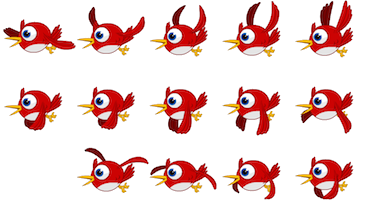
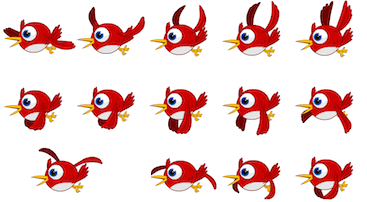
Add files via upload

Changed region(s): [[0.0899, 0.7129, 0.4196, 0.9505]]

diff --git a/Atividade_Avaliativa_2/assets/script/script.js b/Atividade_Avaliativa_2/assets/script/script.js
@@ -3,6 +3,7 @@ var ctx = canvas.getContext('2d');
 
 var but = new Image();
 var bird = new Image();
+var birdRev = new Image();
 var explode  = new Image();
 
 canvas.width = 1400;
@@ -14,12 +15,14 @@ var y = 585;
 var size = 45;
 var index = 0;
 var indexBird = 0;
+var indexBirdRev = 0;
 var indexExplode = 0;
 var tnt = false;
 var start = index;
 var objetos = [100];
 var objeto = [];
 var objetoBird = [];
+var objetoBirdRev = [];
 var sx_or = [1,99,195,292,391,491,591,692,795,899];
 var sy_or = [101,101,103,106,110,112,110,106,103,101];
 var sW_or = [41,43,47,57,66,69,66,57,47,43];
@@ -42,23 +45,31 @@ var sx_Bird = [13,86,159,221,291,13,86,159,232,304,13,86,150,293];
 var sy_Bird = [0,1,4,6,19,86,86,86,86,87,156,157,158,138];
 var sWidth_Bird = [59,59,59,69,70,59,59,59,58,59,59,59,65,72];
 var sHeight_Bird = [58,57,53,50,36,48,50,49,44,44,44,43,35,46];
-//var Bird = [sx_Bird,sy_Bird,sWidth_Bird,sHeight_Bird];
+
+var sx_BirdRev = [295,222,149,77,73,295,222,149,77,4,295,222,151,31];
+var sy_BirdRev = [0,1,4,6,19,86,86,86,86,87,156,157,158,147];
+var sWidth_BirdRev = [59,59,59,69,70,59,59,59,58,59,59,59,66,72];
+var sHeight_BirdRev = [58,57,53,50,36,48,50,49,44,44,44,43,35,46];
+//var BirdRev = [sx_BirdRev,sy_BirdRev,sWidth_BirdRev,sHeight_BirdRev];
 
 var sx_explode = [40,129,232,322,419,501,613,707,804,984,5,101,202,303,401,501,594,708,809,910,11,111,217,317,414,511];
 var sy_explode = [45,39,33,28,23,18,12,7,1,6,201,201,201,201,201,201,202,201,201,201,388,391,391,391,391,391];
 var sW_explode = [27,42,43,59,67,89,81,91,96,92,95,100,100,97,99,89,98,87,87,77,77,77,69,72,76,73];
 var sH_explode = [30,39,50,59,72,89,89,93,99,101,94,100,100,86,88,89,99,89,82,81,83,73,72,71,74,68];
 var level = 1;
-var state = true;
+var stop = true;
 var getDir = 0;
 var back = false;
 var backIndex = 0;
 var randonY = [];
+var randonRevY = [];
 var birdX = 0;
+var birdRevX = 1400;
 var batida = 0;
 var gameOver = false;
 but.src = "assets/img/but.png";
 bird.src = "assets/img/bird.png";
+birdRev.src = "assets/img/birdRev.png";
 explode.src = "assets/img/explode.png";
 
 
@@ -70,7 +81,7 @@ canvas.addEventListener('keydown',function(e){
 	
 	//console.log(e.keyCode);
 	if(e.keyCode){
-		state = false;
+		stop = false;
 		switch(e.keyCode){
 			case 38:
 			if(getDir != 1){
@@ -106,16 +117,12 @@ canvas.addEventListener('keydown',function(e){
 });
 
 var game = setInterval(function(){
-	if(indexExplode > 25 && birdX == 0){
-		level--;
+	if(indexExplode > 25 && birdX == 0 ){
 		clearInterval(game);
 		
 	}
-	if(indexExplode == 1){
-		document.getElementById('bang').play();
-	}
 	ctx.clearRect(0,0,1500,800);
-	if (state == true){
+	if (stop == true){
 		ctx.drawImage(but,sx_or[start],sy_or[start],sW_or[start],sH_or[start],x,y,size,size);
 		objeto[0] = Math.trunc(x/10);
 		objeto[1] = Math.trunc(y/10);
@@ -129,13 +136,19 @@ var game = setInterval(function(){
 	}else{
 		switch(getDir){
 			case 0:
-			state = true;
+			stop = true;
 			break;
 
 			case 1:
-			state = false;
+			stop = false;
 			if(tnt == false){
-				ctx.drawImage(but,sx_or[index],sy_or[index],sW_or[index],sH_or[index],x,y,size,size);
+				if(back==true){
+					ctx.drawImage(but,sx_Xor[index],sy_Xor[index],sW_Xor[index],sH_Xor[index],x,y,size,size);
+
+				}else{
+
+					ctx.drawImage(but,sx_or[index],sy_or[index],sW_or[index],sH_or[index],x,y,size,size);
+				}
 				if(y > 0){
 					y -= 5;
 				}
@@ -145,13 +158,14 @@ var game = setInterval(function(){
 
 			}else{
 				ctx.drawImage(explode,sx_explode[indexExplode],sy_explode[indexExplode],sW_explode[indexExplode],sH_explode[indexExplode],x,y,size*2.4,size*2.4);
+				
 				y += 5;
 				x += 5;
 			}
 			break;
 
 			case 2:
-			state = false;
+			stop = false;
 
 
 			if(tnt == false){
@@ -187,11 +201,16 @@ var game = setInterval(function(){
 			break;
 
 			case 3:
-			state = false;
+			stop = false;
 			if(tnt == false){
+				if(back==true){
+					ctx.drawImage(but,sx_Xor[index],sy_Xor[index],sW_Xor[index],sH_Xor[index],x,y,size,size);
 
+				}else{
 
-				ctx.drawImage(but,sx_or[index],sy_or[index],sW_or[index],sH_or[index],x,y,size,size);
+					ctx.drawImage(but,sx_or[index],sy_or[index],sW_or[index],sH_or[index],x,y,size,size);
+				}
+
 				if(y < 660){
 					y += 5;
 				}
@@ -244,8 +263,15 @@ var game = setInterval(function(){
 		for (var i = 1; i <= level; i++) {
 
 			randonY.push(Math.floor(Math.random()*650));
-			ctx.drawImage(bird,sx_Bird[indexBird],sy_Bird[indexBird],sWidth_Bird[indexBird],sWidth_Bird[indexBird],birdX * i ,randonY[i],70,70);
-			objetos[i] = [Math.trunc((parseInt(birdX * i))/10),Math.trunc((parseInt(randonY[i]))/10)];
+			randonRevY.push(Math.floor(Math.random()*650));
+			//console.log("Resto = "+i%2);
+			if((i%2) == 1 ){
+				ctx.drawImage(bird,sx_Bird[indexBird],sy_Bird[indexBird],sWidth_Bird[indexBird],sWidth_Bird[indexBird],birdX * i ,randonY[i],70,70);
+				objetos[i] = [Math.trunc((parseInt(birdX * i))/10),Math.trunc((parseInt(randonY[i]))/10)];
+			}else{
+				ctx.drawImage(birdRev,sx_BirdRev[indexBirdRev],sy_BirdRev[indexBirdRev],sWidth_BirdRev[indexBirdRev],sWidth_Bird[indexBirdRev],birdRevX * i ,randonRevY[i],70,70);
+				objetos[i] = [Math.trunc((parseInt(birdRevX * i))/10),Math.trunc((parseInt(randonRevY[i]))/10)];
+			}
 			
 
 		}
@@ -253,6 +279,8 @@ var game = setInterval(function(){
 
 			crash(objetos);
 		}
+
+
 		if(index == 9){
 			index = 0;
 		}else{
@@ -276,16 +304,25 @@ var game = setInterval(function(){
 		}else{
 			indexBird++;
 		}
+		if(indexBirdRev >= 12){
+			indexBirdRev = 0;
+		}else{
+			indexBirdRev++;
+		}
 
 
 		birdX+=10;
-
-		if (birdX > 1400) {
+		birdRevX-=10;
+		console.log("birdRevX = "+birdRevX);
+		if (birdX > 1400 && birdRevX < 0) {
 			birdX = 0;
+			birdRevX = 1400;
 			randonY = [];
-			level++;
-			
+			if(tnt==false){
+				level++;
+			}
 		}
+		
 		if(tnt == false){
 			ctx.fillText('Stage '+level,50,50);
 		}else{
